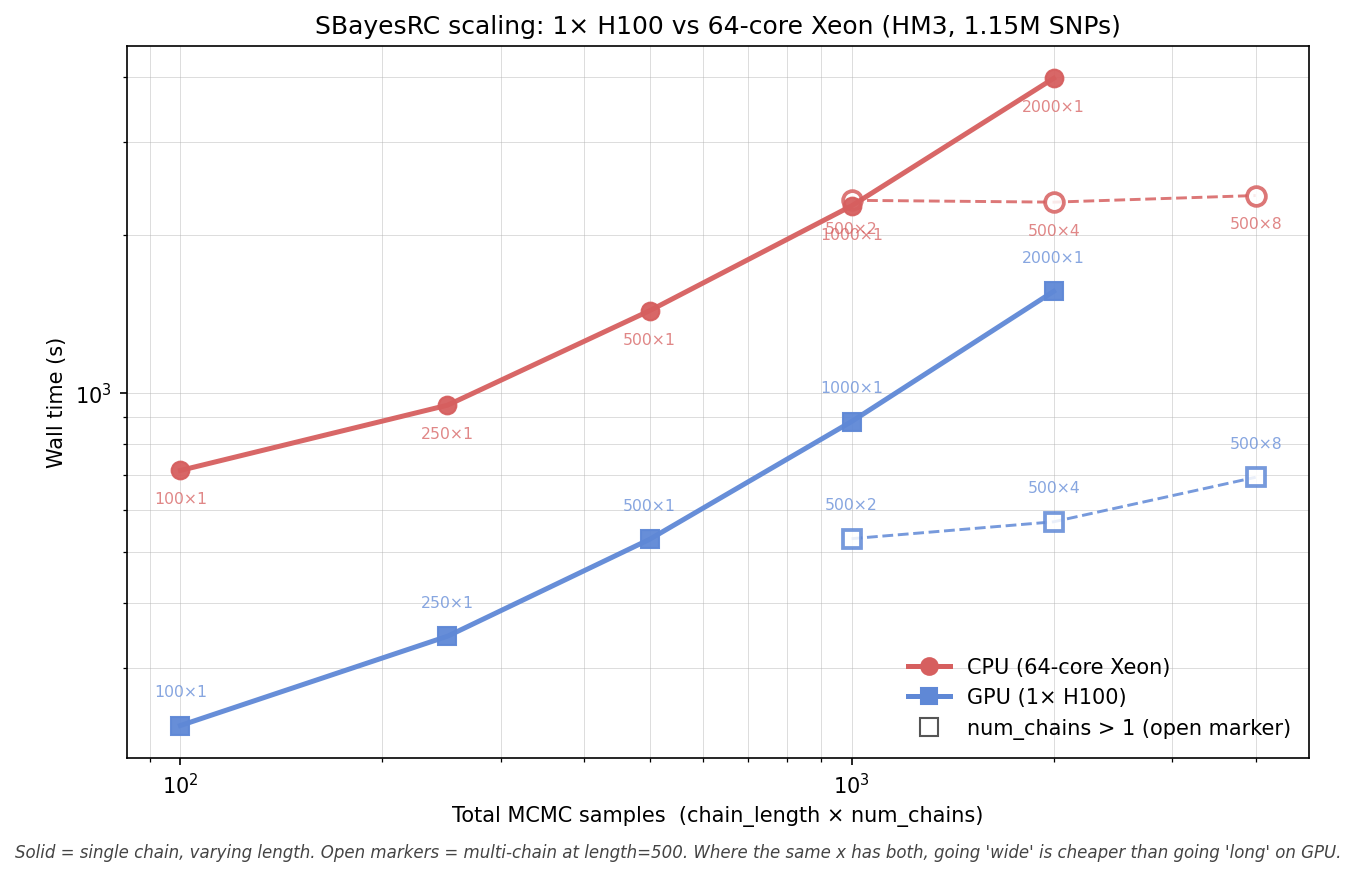
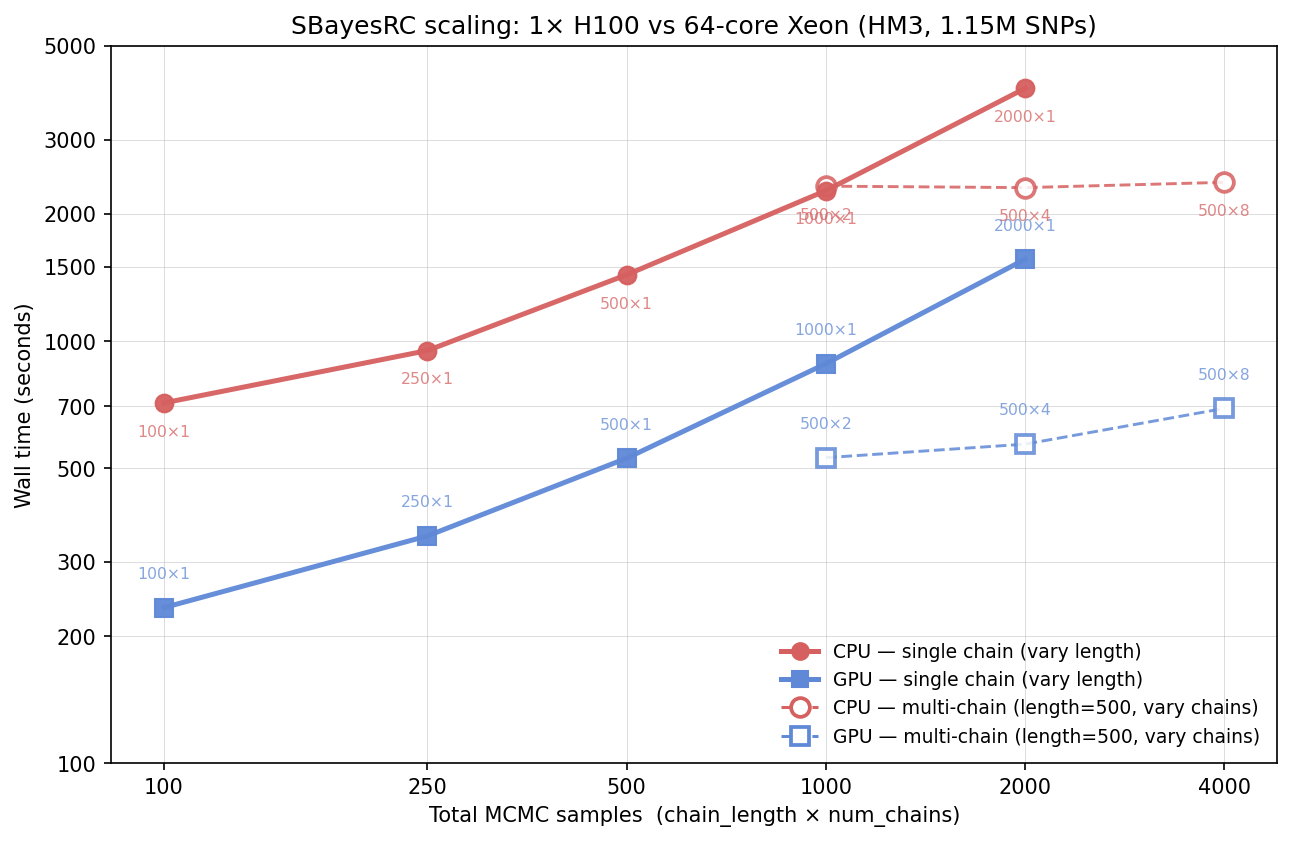
Clarify scaling plot: dense y-axis ticks, explicit 4-entry legend
- Y-axis: explicit tick labels at 100, 200, 300, 500, 700, 1000, 1500, 2000,
  3000, 5000 s so readers can pin down wall times at a glance instead of
  squinting between log-scale powers of 10.
- X-axis: ticks at every actual sweep configuration (100, 250, 500, 1000,
  2000, 4000) rather than generic log ticks.
- Legend: now four explicit entries — CPU single-chain (closed circle),
  GPU single-chain (closed square), CPU multi-chain (open circle dashed),
  GPU multi-chain (open square dashed). Removes the ambiguity in the
  previous 3-entry "open marker means num_chains > 1" caption.
- Drop the small italic footnote under the figure — info now lives in the
  legend and the README copy.

diff --git a/docs/plot_scaling.py b/docs/plot_scaling.py
@@ -113,29 +113,40 @@ def main() -> None:
                     color=c, alpha=0.75)
 
     ax.set_xlabel("Total MCMC samples  (chain_length × num_chains)")
-    ax.set_ylabel("Wall time (s)")
+    ax.set_ylabel("Wall time (seconds)")
     ax.set_xscale("log")
     ax.set_yscale("log")
+
+    # Dense, human-readable y-axis ticks instead of just powers of 10.
+    yticks = [100, 200, 300, 500, 700, 1000, 1500, 2000, 3000, 5000]
+    ax.set_yticks(yticks)
+    ax.set_yticklabels([f"{t}" for t in yticks])
+    ax.minorticks_off()
+    # And x-axis ticks at every actual config x.
+    xticks = sorted({r["total_samples"] for r in rows})
+    ax.set_xticks(xticks)
+    ax.set_xticklabels([f"{t}" for t in xticks])
+
     ax.grid(True, which="both", linewidth=0.4, alpha=0.5)
 
-    # Custom legend with a third entry for the multi-chain markers.
+    # Explicit 4-entry legend so the marker semantics are unambiguous.
     from matplotlib.lines import Line2D
     legend_handles = [
         Line2D([0], [0], color=style["cpu"]["color"], marker="o", markersize=8,
-               linewidth=2.4, label="CPU (64-core Xeon)"),
+               linewidth=2.4, label="CPU — single chain (vary length)"),
         Line2D([0], [0], color=style["gpu"]["color"], marker="s", markersize=8,
-               linewidth=2.4, label="GPU (1× H100)"),
-        Line2D([0], [0], color="#555", marker="s", markersize=9,
-               markerfacecolor="white", markeredgecolor="#555",
-               linewidth=0, label="num_chains > 1 (open marker)"),
+               linewidth=2.4, label="GPU — single chain (vary length)"),
+        Line2D([0], [0], color=style["cpu"]["color"], marker="o", markersize=9,
+               markerfacecolor="white", markeredgecolor=style["cpu"]["color"],
+               markeredgewidth=1.8, linestyle="--", linewidth=1.4,
+               label="CPU — multi-chain (length=500, vary chains)"),
+        Line2D([0], [0], color=style["gpu"]["color"], marker="s", markersize=9,
+               markerfacecolor="white", markeredgecolor=style["gpu"]["color"],
+               markeredgewidth=1.8, linestyle="--", linewidth=1.4,
+               label="GPU — multi-chain (length=500, vary chains)"),
     ]
-    ax.legend(handles=legend_handles, frameon=False, loc="lower right")
+    ax.legend(handles=legend_handles, frameon=False, loc="lower right", fontsize=9)
     ax.set_title(args.title)
-
-    fig.text(0.5, -0.03,
-             "Solid = single chain, varying length. Open markers = multi-chain at length=500. "
-             "Where the same x has both, going 'wide' is cheaper than going 'long' on GPU.",
-             ha="center", fontsize=8, style="italic", color="#444444")
 
     args.out.parent.mkdir(parents=True, exist_ok=True)
     fig.savefig(args.out, dpi=150, bbox_inches="tight")